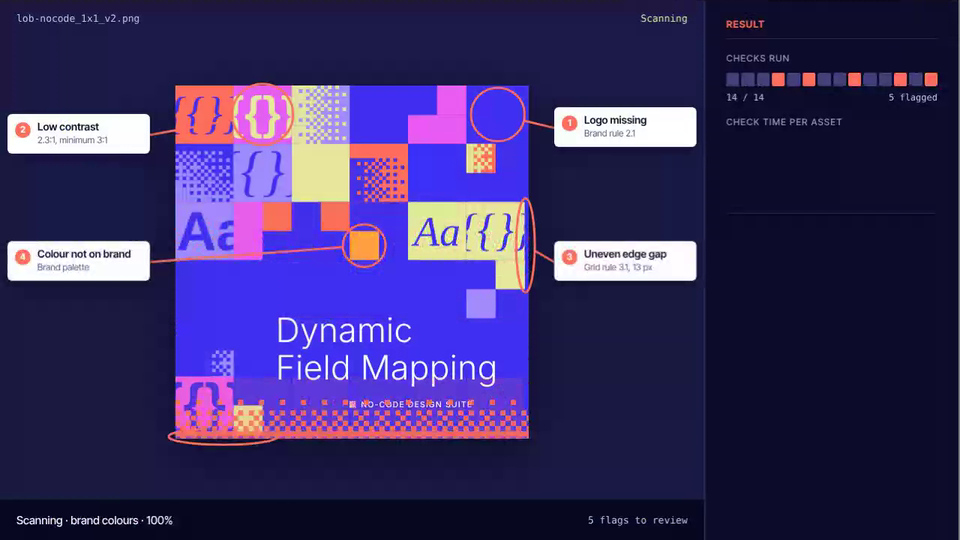
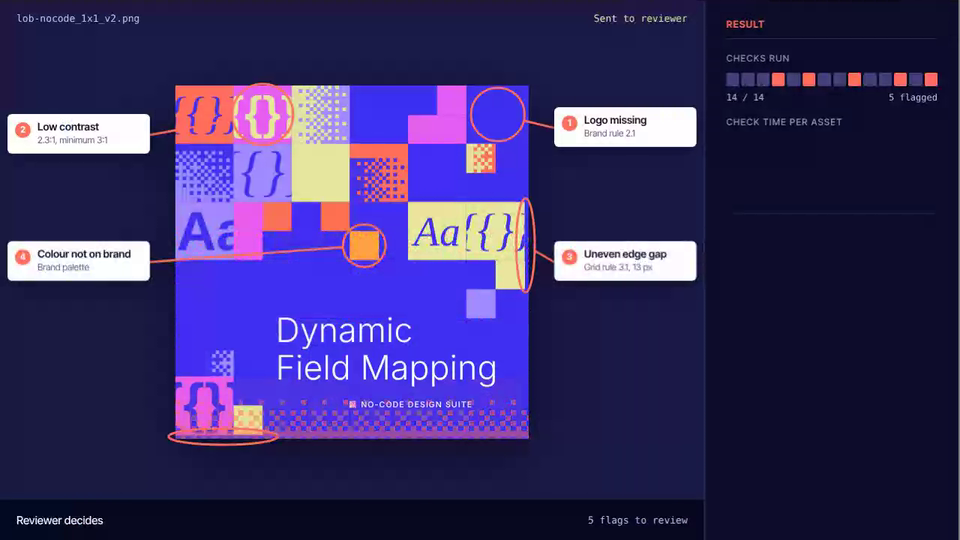
Brand Audit Engine: outline envelope pops in on Request changes (#250)
* Add Brand Audit Engine: asset library with review stages, scan and flag audit, results panel

Claude-Session: https://claude.ai/code/session_01AHeBdyJbkKFm3mk24X3VDa

* Fix apps.json merge

Claude-Session: https://claude.ai/code/session_01AHeBdyJbkKFm3mk24X3VDa

* Brand Audit Engine: move text up on two 9:16 library assets

Claude-Session: https://claude.ai/code/session_01AHeBdyJbkKFm3mk24X3VDa

* Brand Audit Engine: drop legal text flag (four flags), re-record clip

Claude-Session: https://claude.ai/code/session_01AHeBdyJbkKFm3mk24X3VDa

* Brand Audit Engine: drop empty merge field flag (three flags), re-record clip

Claude-Session: https://claude.ai/code/session_01AHeBdyJbkKFm3mk24X3VDa

* Brand Audit Engine: divider above accuracy, re-record clip

Claude-Session: https://claude.ai/code/session_01AHeBdyJbkKFm3mk24X3VDa

* Brand Audit Engine: flag the uneven edge gap beside the yellow cells, re-record clip

Claude-Session: https://claude.ai/code/session_01AHeBdyJbkKFm3mk24X3VDa

* Brand Audit Engine: darker inactive purple for passed checks, re-record clip

Claude-Session: https://claude.ai/code/session_01AHeBdyJbkKFm3mk24X3VDa

* Brand Audit Engine: flag the bottom gap, more muted purple for passed checks, re-record clip

Claude-Session: https://claude.ai/code/session_01AHeBdyJbkKFm3mk24X3VDa

* Brand Audit Engine: hold on results, stacked decision buttons, envelope flies off Request changes, re-record clip
[…]

diff --git a/brand-audit-engine/index.html b/brand-audit-engine/index.html
@@ -119,7 +119,7 @@ button:focus-visible,input:focus-visible{outline:2px solid var(--lime);outline-o
 .acc p{font-size:13px;color:#C9C6F2;margin-top:6px;line-height:1.3}
 .decide{display:grid;grid-template-columns:1fr;gap:8px;margin-top:auto}
 .decide .btn{position:relative}
-.env{position:absolute;right:14px;top:50%;width:30px;height:22px;margin-top:-11px;opacity:0;pointer-events:none;will-change:transform,opacity;filter:drop-shadow(0 2px 3px rgba(0,0,0,.35))}
+.env{position:absolute;right:14px;top:50%;width:30px;height:22px;margin-top:-11px;opacity:0;pointer-events:none;will-change:transform,opacity}
 .decide .btn{margin:0}
 .decide .btn.ghost{padding:11px 8px}
 .res hr.div{border:0;border-top:1px solid var(--line);margin:0}
@@ -188,7 +188,7 @@ button:focus-visible,input:focus-visible{outline:2px solid var(--lime);outline-o
             <svg viewBox="0 0 104 104"><circle cx="52" cy="52" r="42" fill="none" stroke="#3b3b6b" stroke-width="12"/><circle id="ring" cx="52" cy="52" r="42" fill="none" stroke="#FF6F5B" stroke-width="12" stroke-dasharray="263.9" stroke-dashoffset="263.9"/></svg>
             <div><big id="accN">0%</big><p>A person makes the final call.</p></div>
           </div></div>
-        <div class="decide" id="decide"><button class="btn ghost" id="bApprove">Approve</button><button class="btn" id="bChanges"><span id="bcT">Request changes</span><svg class="env" id="env" viewBox="0 0 30 22"><rect x="1" y="1" width="28" height="20" rx="2.5" fill="#fff" stroke="#0D0D2B" stroke-width="2"/><path d="M2 3l13 10L28 3" fill="none" stroke="#FF6F5B" stroke-width="2.2" stroke-linejoin="round"/></svg></button></div>
+        <div class="decide" id="decide"><button class="btn ghost" id="bApprove">Approve</button><button class="btn" id="bChanges"><span id="bcT">Request changes</span><svg class="env" id="env" viewBox="0 0 30 22"><rect x="1.5" y="1.5" width="27" height="19" rx="2.5" fill="none" stroke="#0D0D2B" stroke-width="2"/><path d="M2.5 3.5l12.5 9.5L27.5 3.5" fill="none" stroke="#0D0D2B" stroke-width="2" stroke-linejoin="round"/></svg></button></div>
       </aside>
     </section>
     <div class="cursor" id="cursor"><svg width="22" height="22" viewBox="0 0 22 22"><path d="M3 2l15 8.5-6.6 1.6L8.2 19z" fill="#fff" stroke="#0D0D2B" stroke-width="1.6" stroke-linejoin="round"/></svg></div>
@@ -542,9 +542,8 @@ function render(t){
     const dv = easeOut(prog(t, 16500, 17000)); el.decide.style.opacity = dv; el.decide.style.transform = `translateY(${(1 - dv) * 10}px)`;
     el.bC.classList.toggle('press', t > 17950 && t < 18100);
     setTxt('bc', $('#bcT'), decided ? 'Changes requested' : 'Request changes');
-    const ep = prog(t, 17980, 18950), pop = prog(t, 17980, 18080), fly = Math.pow(ep, 1.7);
-    envEl.style.opacity = ep <= 0 || ep >= 1 ? 0 : pop * (1 - prog(ep, .75, 1));
-    envEl.style.transform = `translate(${fly * 150}px,${-fly * 170 + Math.sin(ep * 9) * 6 * ep}px) rotate(${-10 + ep * 38}deg) scale(${(.5 + .5 * pop) * (1 - .4 * ep)})`;
+    const pop = prog(t, 17980, 18300), k = easeOut(pop), ov = 1 + .25 * Math.sin(pop * Math.PI);
+    envEl.style.opacity = k; envEl.style.transform = `scale(${(.4 + .6 * k) * ov})`;
   }
   updateCursor(t);
 }
